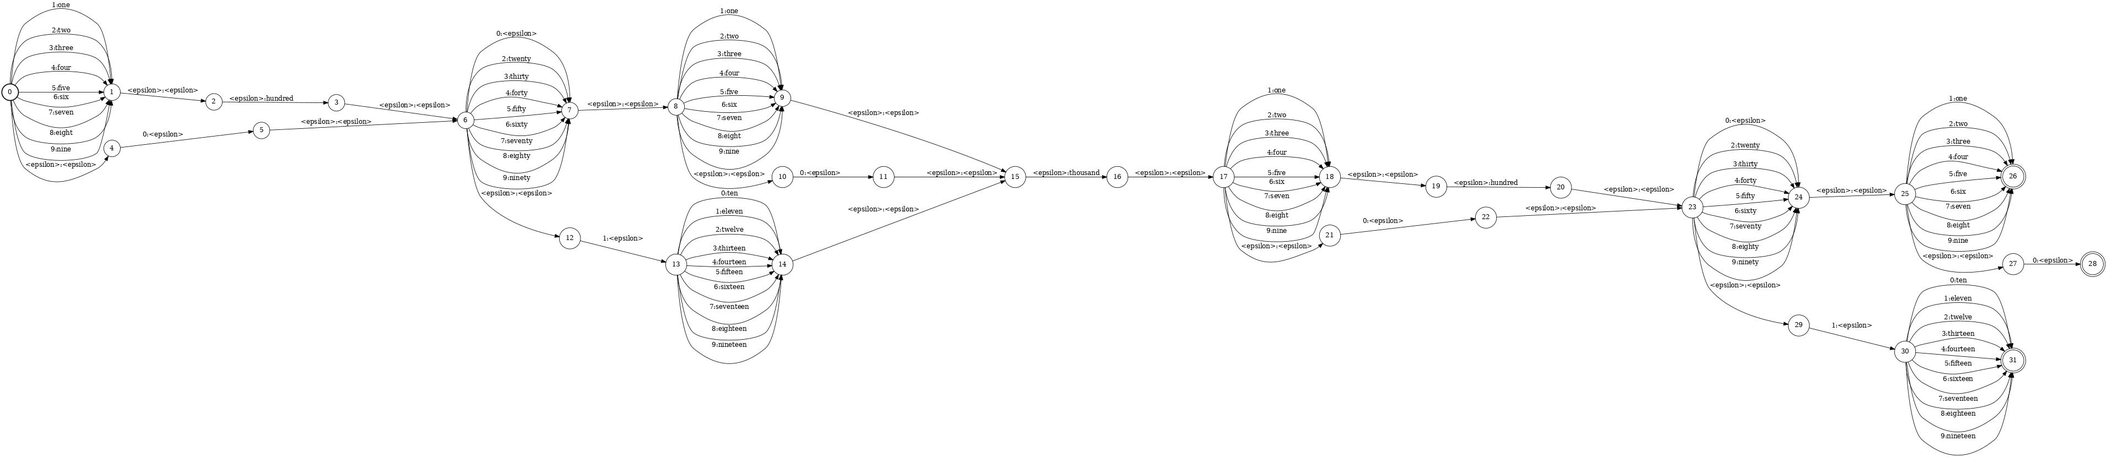
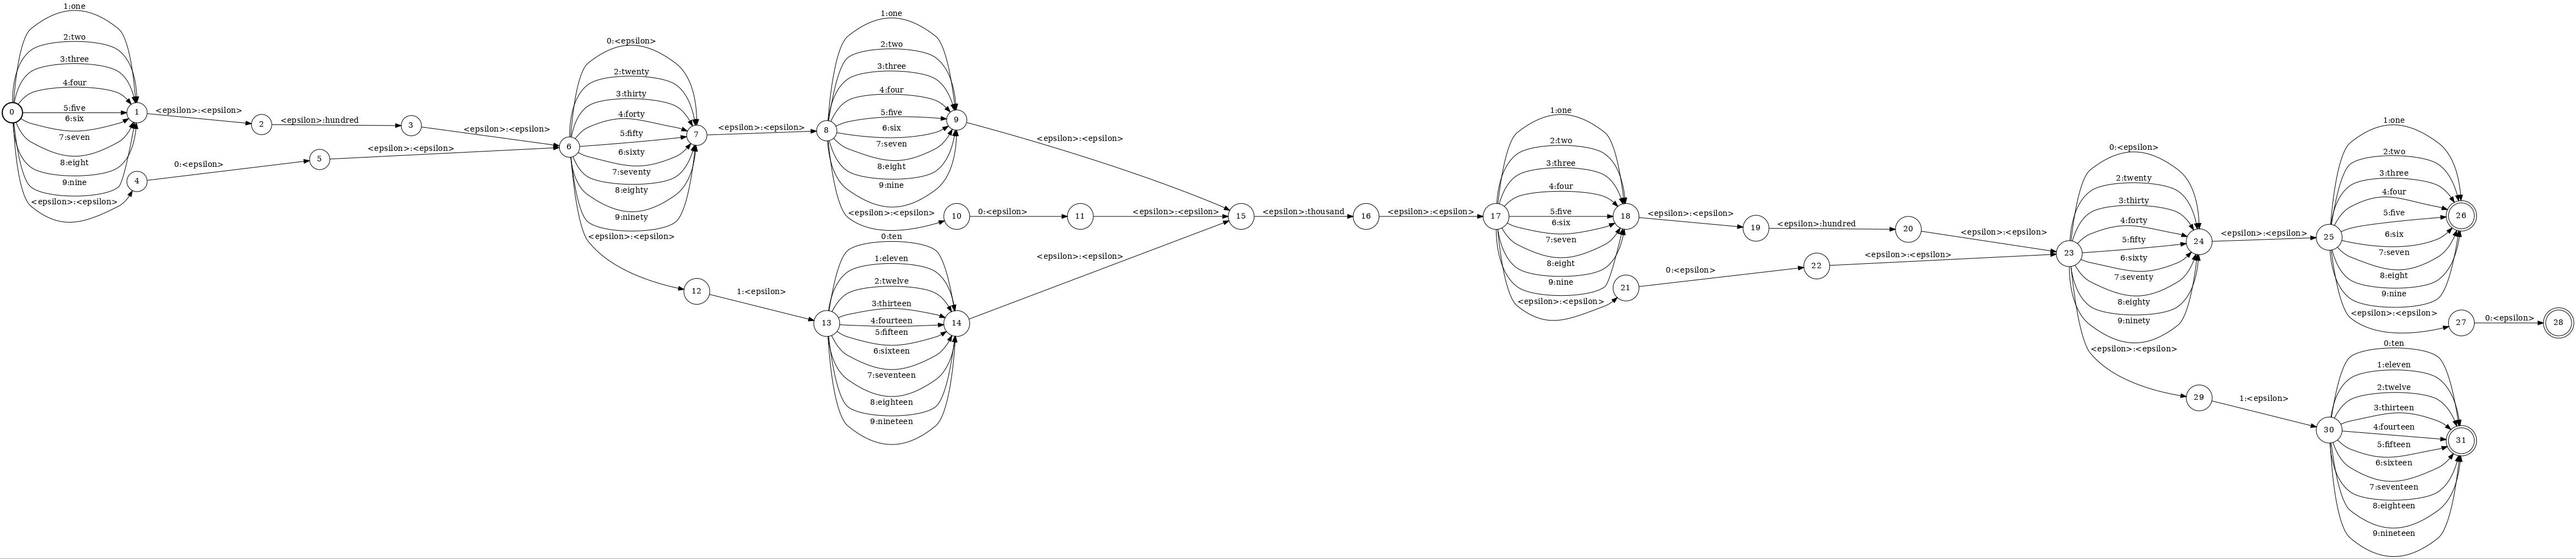
img resolution

diff --git a/README.md b/README.md
@@ -410,7 +410,7 @@ fstunion name0.fst 0.fst | fstconcat name2pre.fst - | fstunion - name1.fst > nam
 ```
 
 ```
-fstdraw --isymbols=ascii.syms --osymbols=wotw.syms -portrait name2.fst | dot -Tjpg >name2.jpg
+fstdraw --isymbols=ascii.syms --osymbols=wotw.syms -portrait name2.fst | dot -Tjpg -Gdpi=150>name2.jpg
 ```
 
 ![name2.fst](./name2.jpg)
@@ -652,7 +652,7 @@ fstunion name1.fst name2.fst | fstconcat - thousand.fst | fstconcat - name3.fst 
 ```
 
 ```
-fstdraw --isymbols=ascii.syms --osymbols=wotw.syms -portrait name5.fst | dot -Tjpg -Gdpi=250>name5.jpg
+fstdraw --isymbols=ascii.syms --osymbols=wotw.syms -portrait name5.fst | dot -Tjpg -Gdpi=400>name5.jpg
 ```
 
 ![name5.fst](./name5.jpg)
@@ -704,7 +704,7 @@ fstconcat name3.fst thousand.fst | fstconcat - name3.fst > name6.fst
 ```
 
 ```
-fstdraw --isymbols=ascii.syms --osymbols=wotw.syms -portrait name6.fst | dot -Tjpg -Gdpi=450>name6.jpg
+fstdraw --isymbols=ascii.syms --osymbols=wotw.syms -portrait name6.fst | dot -Tjpg -Gdpi=550>name6.jpg
 ```
 
 ![name6.fst](./name6.jpg)
@@ -820,7 +820,7 @@ fstdraw --isymbols=wotw.syms --osymbols=wotw.syms -portrait final46789.fst | dot
 
 ```
 fstcompose test467890.fst final.fst | fstproject --project_output | fstrmepsilon > final467890.fst
-fstdraw --isymbols=wotw.syms --osymbols=wotw.syms -portrait final467890.fst | dot -Tjpg -Gdpi=150>final467890.jpg
+fstdraw --isymbols=wotw.syms --osymbols=wotw.syms -portrait final467890.fst | dot -Tjpg -Gdpi=200>final467890.jpg
 ```
 
 ![final467890.fst](./final467890.jpg)
